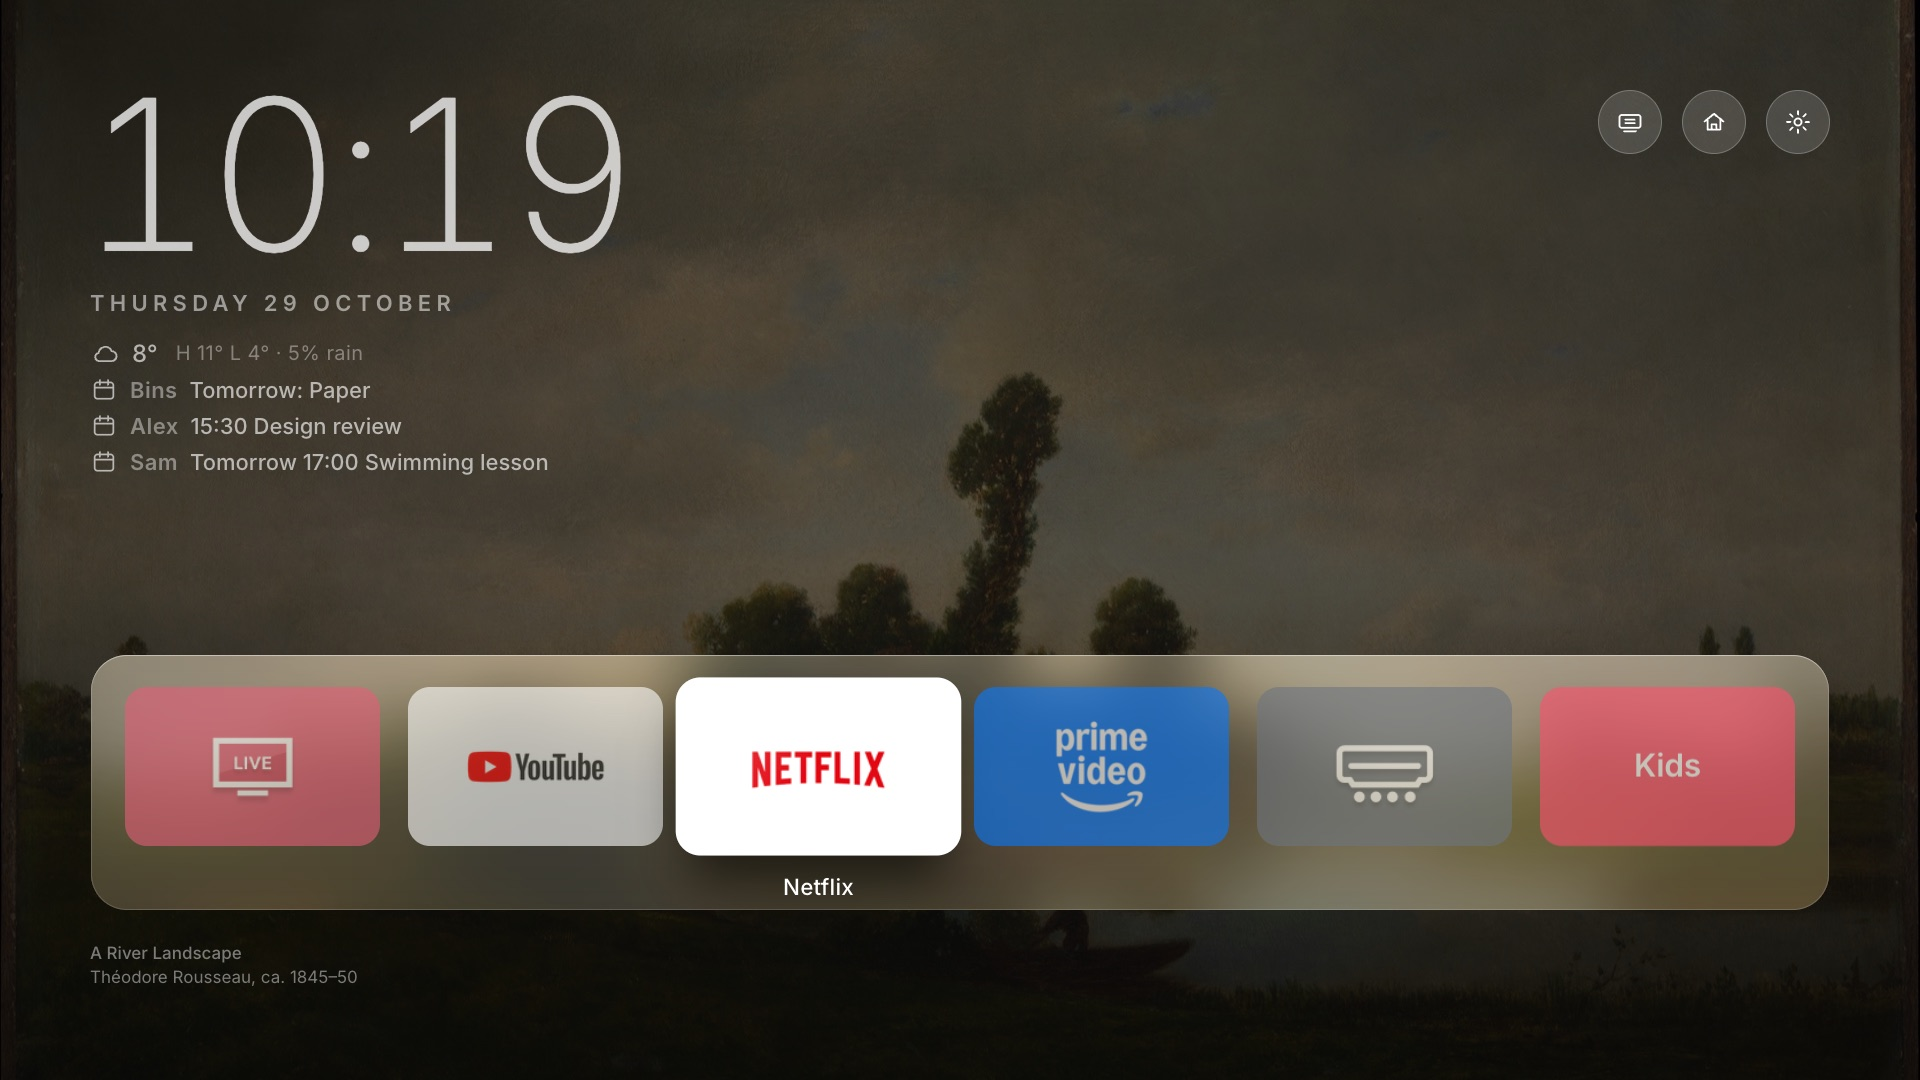
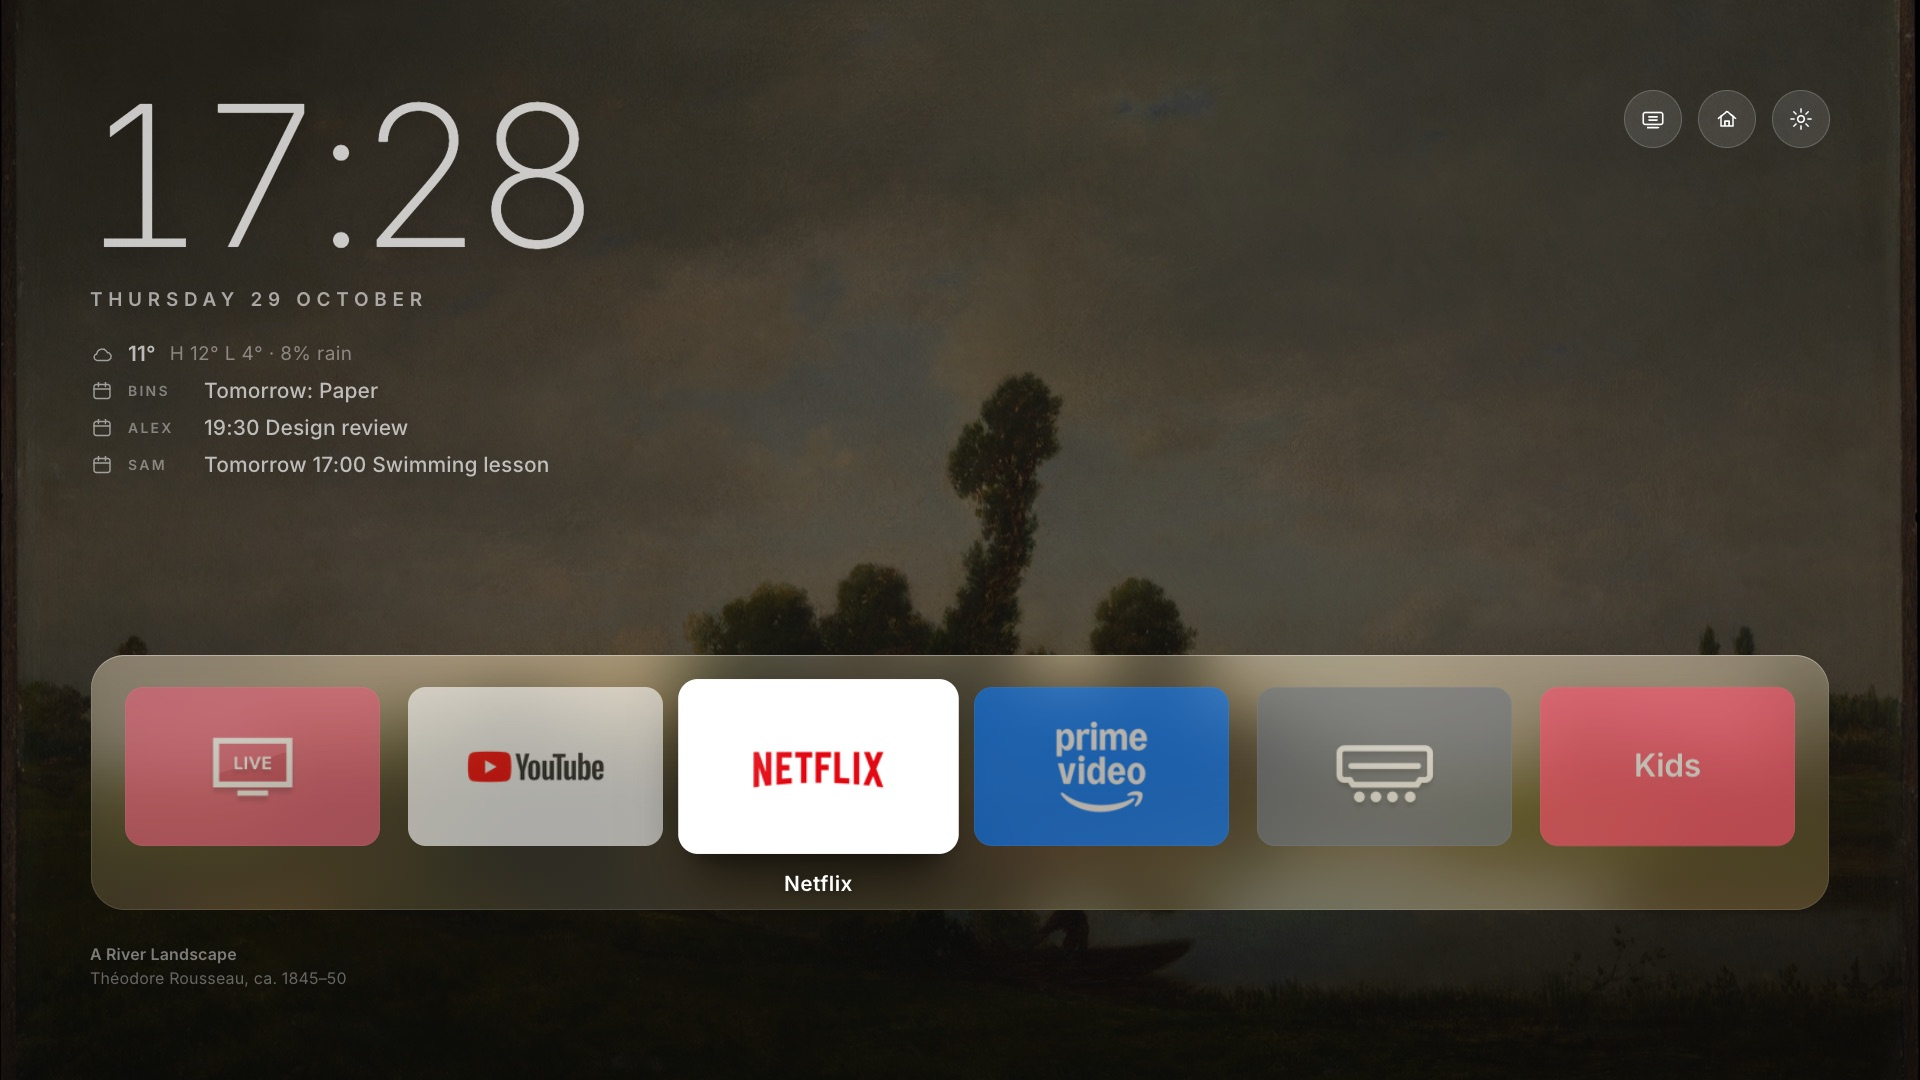
Design polish without new runtime cost; never show a painting that failed to load
- Calmer type scale; a faint static shadow on the clock; weather and calendars
  in one aligned column with small uppercase names; quieter top buttons;
  softer background fade; less milky dock glass with a finer highlight;
  tiles with a hairline edge and a deeper two-layer focus shadow.
- Gallery mode: a museum wall card (off-white, dark ink), details one per line.
- The drawer's small tiles keep a single shadow: the richer one cost it 5-10
  fps on the TV. Measured after: dock 60 fps, drawer ~51 open / ~57 moving.
- art.js: a painting whose image didn't load no longer replaces the one on
  screen (it could leave the wallpaper black).
- README screenshots retaken.

diff --git a/app/style.css b/app/style.css
@@ -73,8 +73,8 @@ body { pointer-events: none; }
 /* Static legibility gradient behind the clock (top-left) and the dock (bottom). */
 #shade {
   background:
-    radial-gradient(ellipse 1100px 620px at 0% 0%, rgba(0, 0, 0, 0.5), rgba(0, 0, 0, 0) 72%),
-    linear-gradient(to top, rgba(0, 0, 0, 0.55) 0%, rgba(0, 0, 0, 0) 48%);
+    radial-gradient(ellipse 1300px 760px at 0% 0%, rgba(0, 0, 0, 0.42), rgba(0, 0, 0, 0.12) 55%, rgba(0, 0, 0, 0) 80%),
+    linear-gradient(to top, rgba(0, 0, 0, 0.5) 0%, rgba(0, 0, 0, 0.14) 30%, rgba(0, 0, 0, 0) 52%);
 }
 
 /* ---------- Clock ---------- */
@@ -82,58 +82,65 @@ body { pointer-events: none; }
 #clock {
   position: absolute;
   left: var(--safe);
-  top: 70px;
+  top: 78px;
+  /* A faint, static shadow keeps the white type legible over bright paintings without darkening the art. */
+  text-shadow: 0 2px 28px rgba(0, 0, 0, 0.28);
 }
 #time {
-  font-size: 210px;
+  font-size: 196px;
   font-weight: 200;
-  letter-spacing: -0.045em;
+  letter-spacing: -0.05em;
   line-height: 1;
   font-variant-numeric: tabular-nums;
-  margin-left: -10px;
+  margin-left: -9px;
 }
 #date {
-  margin-top: 10px;
-  font-size: 22px;
+  margin-top: 14px;
+  font-size: 19px;
   font-weight: 600;
-  letter-spacing: 0.24em;
+  letter-spacing: 0.3em;
   text-transform: uppercase;
-  opacity: 0.7;
+  opacity: 0.78;
 }
 
-#wx {
+/* Weather and calendar: one column, icons and text aligned, names as small labels. */
+#wx, #cal .ev {
   display: flex;
   align-items: center;
-  gap: 12px;
-  margin-top: 22px;
-  font-size: 24px;
+  gap: 14px;
+  font-size: 21px;
   font-weight: 500;
+  letter-spacing: 0.005em;
+}
+#wx {
+  margin-top: 30px;
   opacity: 0;
   transition: opacity 600ms ease;
 }
-#wx.on { opacity: 0.85; }
-#wx svg {
-  width: 30px;
-  height: 30px;
+#wx.on { opacity: 0.9; }
+#wx svg, #cal svg {
+  flex: none;
+  width: 24px;
+  height: 24px;
   fill: none;
   stroke: #fff;
   stroke-width: 1.5;
   stroke-linecap: round;
   stroke-linejoin: round;
+  opacity: 0.8;
 }
-#wx-range { font-weight: 400; opacity: 0.6; font-size: 20px; margin-left: 6px; letter-spacing: 0.02em; }
-#cal { margin-top: 6px; }
-#cal .ev {
-  display: flex;
-  align-items: center;
-  gap: 12px;
-  margin-top: 8px;
-  font-size: 22px;
-  font-weight: 500;
-  opacity: 0.85;
+#wx-temp { font-weight: 600; }
+#wx-range { font-weight: 400; opacity: 0.62; font-size: 19px; letter-spacing: 0.02em; }
+#cal { margin-top: 4px; }
+#cal .ev { margin-top: 12px; opacity: 0.9; }
+#cal b {
+  min-width: 62px;
+  font-size: 14px;
+  font-weight: 600;
+  letter-spacing: 0.16em;
+  text-transform: uppercase;
+  opacity: 0.6;
 }
-#cal b { font-weight: 600; opacity: 0.65; letter-spacing: 0.02em; }
-#cal svg { flex: none; width: 28px; height: 28px; fill: none; stroke: #fff; stroke-width: 1.5; stroke-linecap: round; stroke-linejoin: round; }
 
 /* ---------- Top-right buttons ---------- */
 
@@ -142,15 +149,15 @@ body { pointer-events: none; }
   top: var(--safe);
   right: var(--safe);
   display: flex;
-  gap: 20px;
+  gap: 16px;
 }
 .btn {
   position: relative;
-  width: 64px;
-  height: 64px;
+  width: 58px;
+  height: 58px;
   border-radius: 50%;
-  background: rgba(255, 255, 255, 0.14);
-  box-shadow: inset 0 0 0 1px rgba(255, 255, 255, 0.24);
+  background: rgba(255, 255, 255, 0.1);
+  box-shadow: inset 0 0 0 1px rgba(255, 255, 255, 0.18);
   transition: transform 220ms var(--ease);
 }
 .btn::before {
@@ -165,13 +172,13 @@ body { pointer-events: none; }
 }
 .btn svg {
   position: absolute;
-  left: 18px;
-  top: 18px;
-  width: 28px;
-  height: 28px;
+  left: 16px;
+  top: 16px;
+  width: 26px;
+  height: 26px;
   fill: none;
   stroke: #fff;
-  stroke-width: 1.6;
+  stroke-width: 1.5;
   stroke-linecap: round;
   stroke-linejoin: round;
   transition: opacity 220ms var(--ease);
@@ -184,7 +191,7 @@ body { pointer-events: none; }
 /* Inputs picker */
 #picker {
   position: absolute;
-  top: 84px;
+  top: 78px;
   right: 0;
   width: 380px;
   padding: 10px;
@@ -234,9 +241,9 @@ body { pointer-events: none; }
 #glass {
   position: absolute;
   inset: 0;
-  border-radius: 36px;
+  border-radius: 34px;
   overflow: hidden;
-  background: rgba(40, 40, 44, 0.5);
+  background: rgba(30, 30, 34, 0.55);
 }
 /* The pre-blurred wallpaper copy, positioned so it lines up with the wallpaper behind the dock. */
 .blur {
@@ -249,9 +256,9 @@ body { pointer-events: none; }
   content: '';
   position: absolute;
   inset: 0;
-  border-radius: 36px;
-  background: linear-gradient(to bottom, rgba(255, 255, 255, 0.16), rgba(255, 255, 255, 0.08));
-  box-shadow: inset 0 1px 0 rgba(255, 255, 255, 0.35), inset 0 0 0 1px rgba(255, 255, 255, 0.16);
+  border-radius: 34px;
+  background: linear-gradient(to bottom, rgba(255, 255, 255, 0.1), rgba(255, 255, 255, 0.03) 60%);
+  box-shadow: inset 0 1px 0 rgba(255, 255, 255, 0.3), inset 0 0 0 1px rgba(255, 255, 255, 0.1);
 }
 #row {
   position: relative;
@@ -265,24 +272,25 @@ body { pointer-events: none; }
   flex: none;
   width: var(--tile-w);
   height: var(--tile-h);
-  opacity: 0.78;
+  opacity: 0.82;
   transition: transform 220ms var(--ease), opacity 220ms var(--ease);
   will-change: transform;
 }
 .tile::before {
   content: '';
   position: absolute;
-  inset: 8px 10px 0;
-  border-radius: 22px;
-  box-shadow: 0 26px 44px rgba(0, 0, 0, 0.6);
+  inset: 10px 12px 0;
+  border-radius: 18px;
+  box-shadow: 0 30px 50px rgba(0, 0, 0, 0.55), 0 8px 16px rgba(0, 0, 0, 0.25);
   opacity: 0;
   transition: opacity 220ms var(--ease);
 }
 .face {
   position: absolute;
   inset: 0;
-  border-radius: 22px;
+  border-radius: 18px;
   overflow: hidden;
+  box-shadow: inset 0 0 0 1px rgba(255, 255, 255, 0.08);   /* hairline edge, drawn once */
 }
 .face img {
   position: absolute;
@@ -311,7 +319,7 @@ body { pointer-events: none; }
   content: '';
   position: absolute;
   inset: 0;
-  background: linear-gradient(125deg, rgba(255, 255, 255, 0.4) 0%, rgba(255, 255, 255, 0.1) 34%, rgba(255, 255, 255, 0) 48%);
+  background: linear-gradient(125deg, rgba(255, 255, 255, 0.32) 0%, rgba(255, 255, 255, 0.08) 32%, rgba(255, 255, 255, 0) 46%);
   opacity: 0;
   transition: opacity 220ms var(--ease);
 }
@@ -322,14 +330,15 @@ body { pointer-events: none; }
   top: 100%;
   margin-top: 16px;
   text-align: center;
-  font-size: 20px;
-  font-weight: 500;
-  letter-spacing: 0.01em;
+  font-size: 19px;
+  font-weight: 600;
+  letter-spacing: 0.02em;
+  text-shadow: 0 1px 12px rgba(0, 0, 0, 0.35);
   opacity: 0;
   transform: translateY(-8px);
   transition: opacity 220ms var(--ease), transform 220ms var(--ease);
 }
-.tile.f { transform: scale(1.12); opacity: 1; }
+.tile.f { transform: scale(1.1); opacity: 1; }
 .tile.f::before, .tile.f .face::after { opacity: 1; }
 .tile.f .name { opacity: 1; transform: none; }
 
@@ -340,13 +349,16 @@ body { pointer-events: none; }
   left: var(--safe);
   bottom: var(--safe);
   max-width: 900px;
-  font-size: 17px;
-  line-height: 1.45;
-  opacity: 0.6;
+  font-size: 16px;
+  line-height: 1.5;
+  letter-spacing: 0.01em;
+  opacity: 0.7;
+  text-shadow: 0 1px 14px rgba(0, 0, 0, 0.4);
   transition: opacity 1s ease;
 }
 #caption.hide { opacity: 0; }
-#c-title { font-weight: 500; }
+#c-title { font-weight: 600; }
+#c-meta { opacity: 0.8; }
 
 /* ---------- Intro: clock, buttons and dock in within 300 ms ---------- */
 
@@ -398,6 +410,11 @@ body { pointer-events: none; }
   margin-top: 36px;
 }
 .tile.small { width: 200px; height: 125px; will-change: auto; }
+/* The drawer's 20 small tiles repaint on every focus move: one plain shadow and no hairline there (the dock's
+   double shadow and hairline cost the drawer ~5-10 fps, measured). */
+.tile.small::before { box-shadow: 0 22px 36px rgba(0, 0, 0, 0.5); }
+.tile.small .face { box-shadow: none; }
+.tile.small .name { text-shadow: none; }
 .tile.small .face img { width: 125px; height: 125px; }
 .tile.small .face { background: #2c2c2e; }
 .tile.small .name { font-size: 18px; margin-top: 12px; }
@@ -421,24 +438,35 @@ body { pointer-events: none; }
 /* ---------- Idle screensaver: art only, slow zoom, a small drifting clock ---------- */
 
 /* The gallery label: title, artist and year, then time · date · weather · next event, like a museum wall card. */
+/* A museum wall card: off-white, dark ink, small type, a hairline rule between the work and today's details. */
 #label {
   position: absolute;
   left: var(--safe);
   bottom: var(--safe);
-  max-width: 1100px;
-  padding: 22px 28px 24px;
-  border-radius: 6px;
-  background: rgba(16, 16, 18, 0.55);
-  box-shadow: inset 0 0 0 1px rgba(255, 255, 255, 0.08);
+  width: 640px;
+  padding: 26px 30px 26px;
+  border-radius: 3px;
+  background: #f2eee6;
+  color: #1c1a17;
+  box-shadow: 0 18px 40px rgba(0, 0, 0, 0.35), 0 2px 6px rgba(0, 0, 0, 0.2);
   opacity: 0;
   transition: opacity 1.2s ease;
 }
-#g-title { font-size: 26px; font-weight: 500; font-style: italic; letter-spacing: 0.005em; }
-#g-artist { margin-top: 4px; font-size: 20px; opacity: 0.75; }
-#g-line { margin-top: 16px; font-size: 20px; font-weight: 500; opacity: 0.9; letter-spacing: 0.01em; }
+#g-title { font-size: 23px; font-weight: 600; letter-spacing: -0.005em; line-height: 1.25; }
+#g-artist { margin-top: 6px; font-size: 17px; color: #5d574e; }
+#g-line {
+  margin-top: 18px;
+  padding-top: 16px;
+  border-top: 1px solid #d8d1c4;
+  font-size: 16px;
+  line-height: 1.55;
+  color: #3a3631;
+  letter-spacing: 0.01em;
+}
+#g-line div + div { margin-top: 2px; }
 .saver #clock, .saver #top, .saver #dock, .saver #caption, .saver #drawer { opacity: 0; transition: opacity 1.2s ease; }
-.saver #label { opacity: 0.85; }
-.night.saver #label { opacity: 0.55; }
+.saver #label { opacity: 0.94; }
+.night.saver #label { opacity: 0.42; }   /* a light card stays gentle in a dark room */
 /* No Ken Burns in the screensaver either: measured on the TV, the zoom on a 4K layer kept the web engine at ~75% of
    a CPU core for as long as the screensaver ran. Still art and a clock that moves once a minute cost ~nothing. */
 

diff --git a/app/main.js b/app/main.js
@@ -79,9 +79,15 @@
       parts.push(Weather.word(w.desc) + ', ' + w.max + '° ' + I18N.t('and') + ' ' + w.min + '°' +
         (showRain(w) ? ', ' + w.rain + I18N.t('rainChance') : ''));
     }
-    Calendar.lines().forEach(function (l) { parts.push((l.name ? l.name + ': ' : '') + l.text); });
-    var line = parts.join('  ·  ');
-    if ($('g-line').textContent !== line) $('g-line').textContent = line;
+    // First line: time · date · weather; then one line per calendar, like the details on a wall card.
+    var lines = [parts.join('  ·  ')].concat(Calendar.lines().map(function (l) {
+      return (l.name ? l.name + ': ' : '') + l.text;
+    }));
+    var key = lines.join('\n'), box = $('g-line');
+    if (box.getAttribute('data-k') === key) return;
+    box.setAttribute('data-k', key);
+    box.innerHTML = lines.map(function () { return '<div></div>'; }).join('');
+    lines.forEach(function (text, i) { box.children[i].textContent = text; });
   }
 
   // ---------- Dock ----------

diff --git a/app/art.js b/app/art.js
@@ -59,6 +59,13 @@ var Art = (function () {
     var img = slides[t].firstElementChild;
     img.src = src;
     return img.decode().catch(function () {}).then(function () {
+      // A painting that didn't load (a broken download, a revoked URL) must never replace the one on screen: that
+      // left the wallpaper black. Keep what's showing; the bundled painting is the fallback on a cold start.
+      if (!img.naturalWidth) {
+        img.removeAttribute('src');
+        if (active < 0 && src !== DEFAULT.src) return show(DEFAULT.src, DEFAULT.meta, instant);
+        return;
+      }
       paintBlur(img, blurs[t].firstElementChild);
       if (!instant && window.Home) window.Home.still(1800);   // no zoom during the crossfade
       var old = active;
